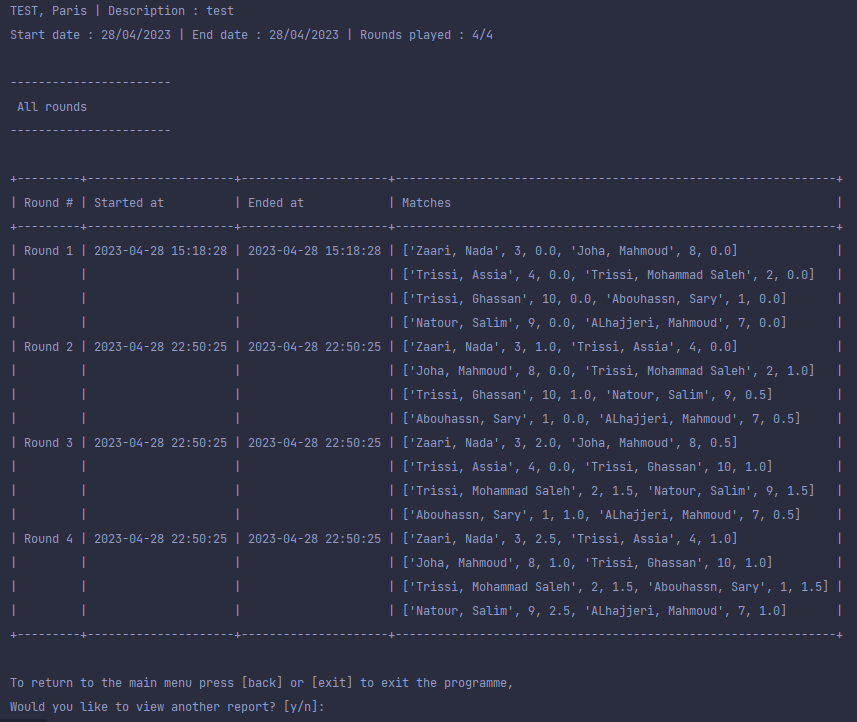
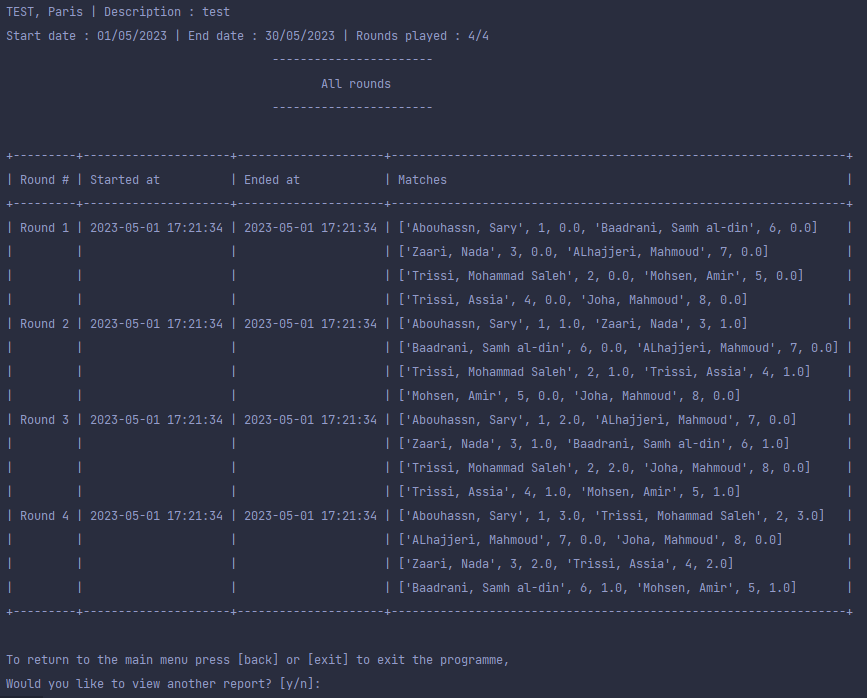
Update in display all rounds table for print in center

diff --git a/View/menu.py b/View/menu.py
@@ -94,9 +94,9 @@ class MenuView:
 
     @staticmethod
     def msg_all_rounds():
-        print("\n-----------------------")
-        print(" All rounds")
-        print("-----------------------\n")
+        print("-----------------------".center(100))
+        print(" All rounds".center(100))
+        print("-----------------------\n".center(100))
 
     @staticmethod
     def header_final_scour(tournament):
